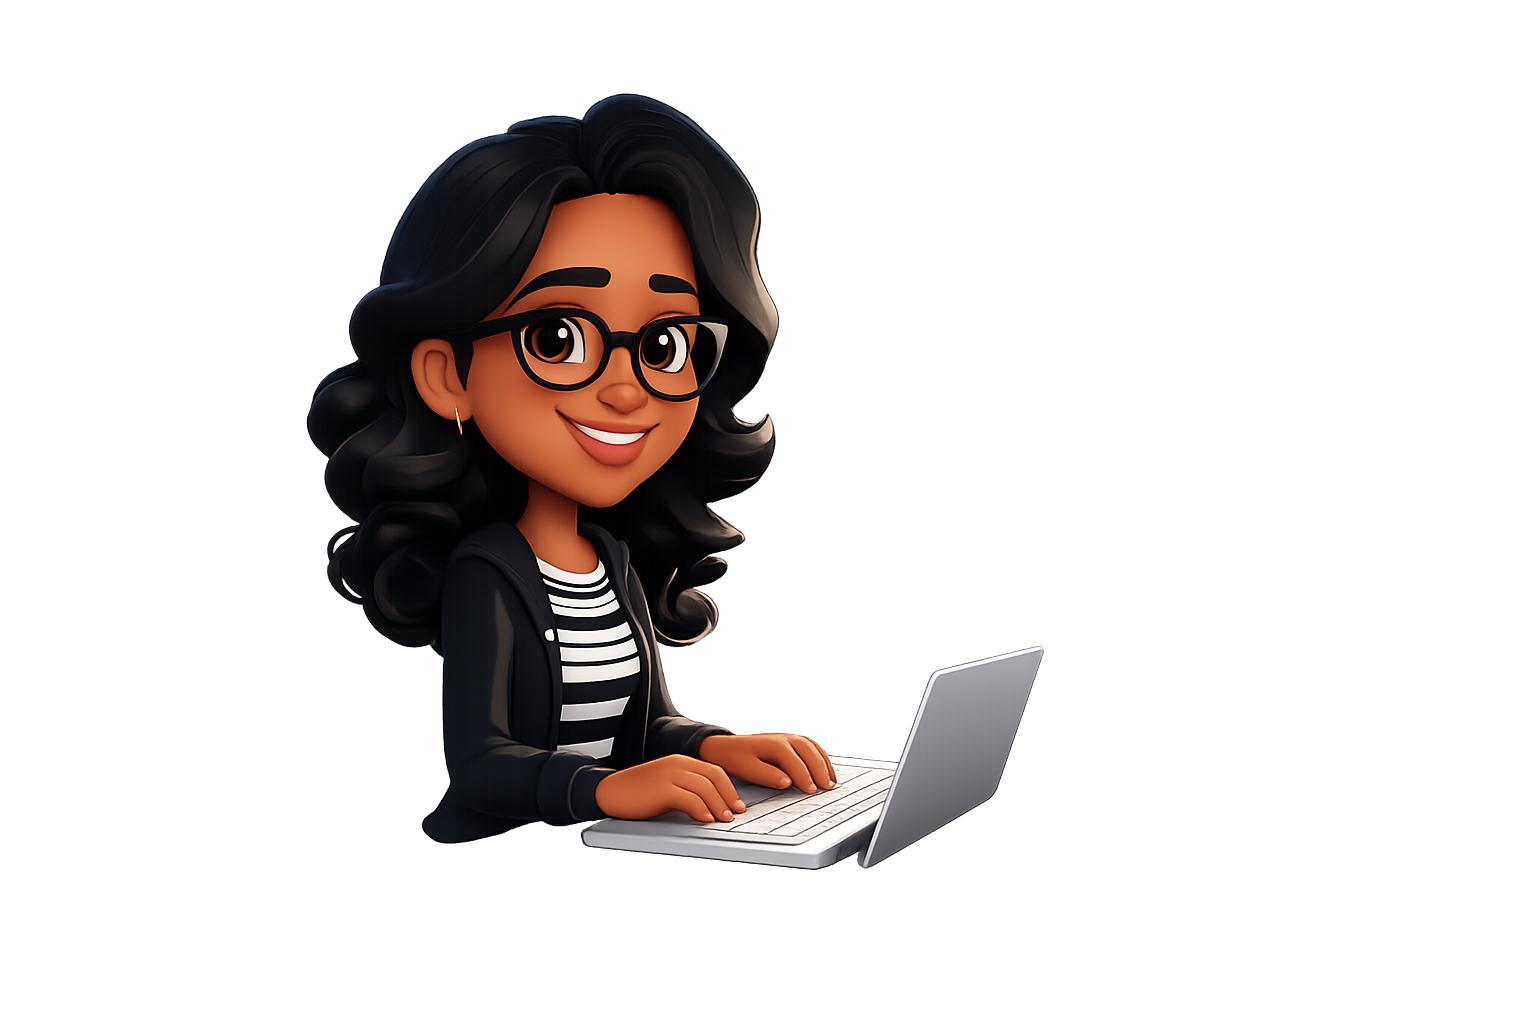
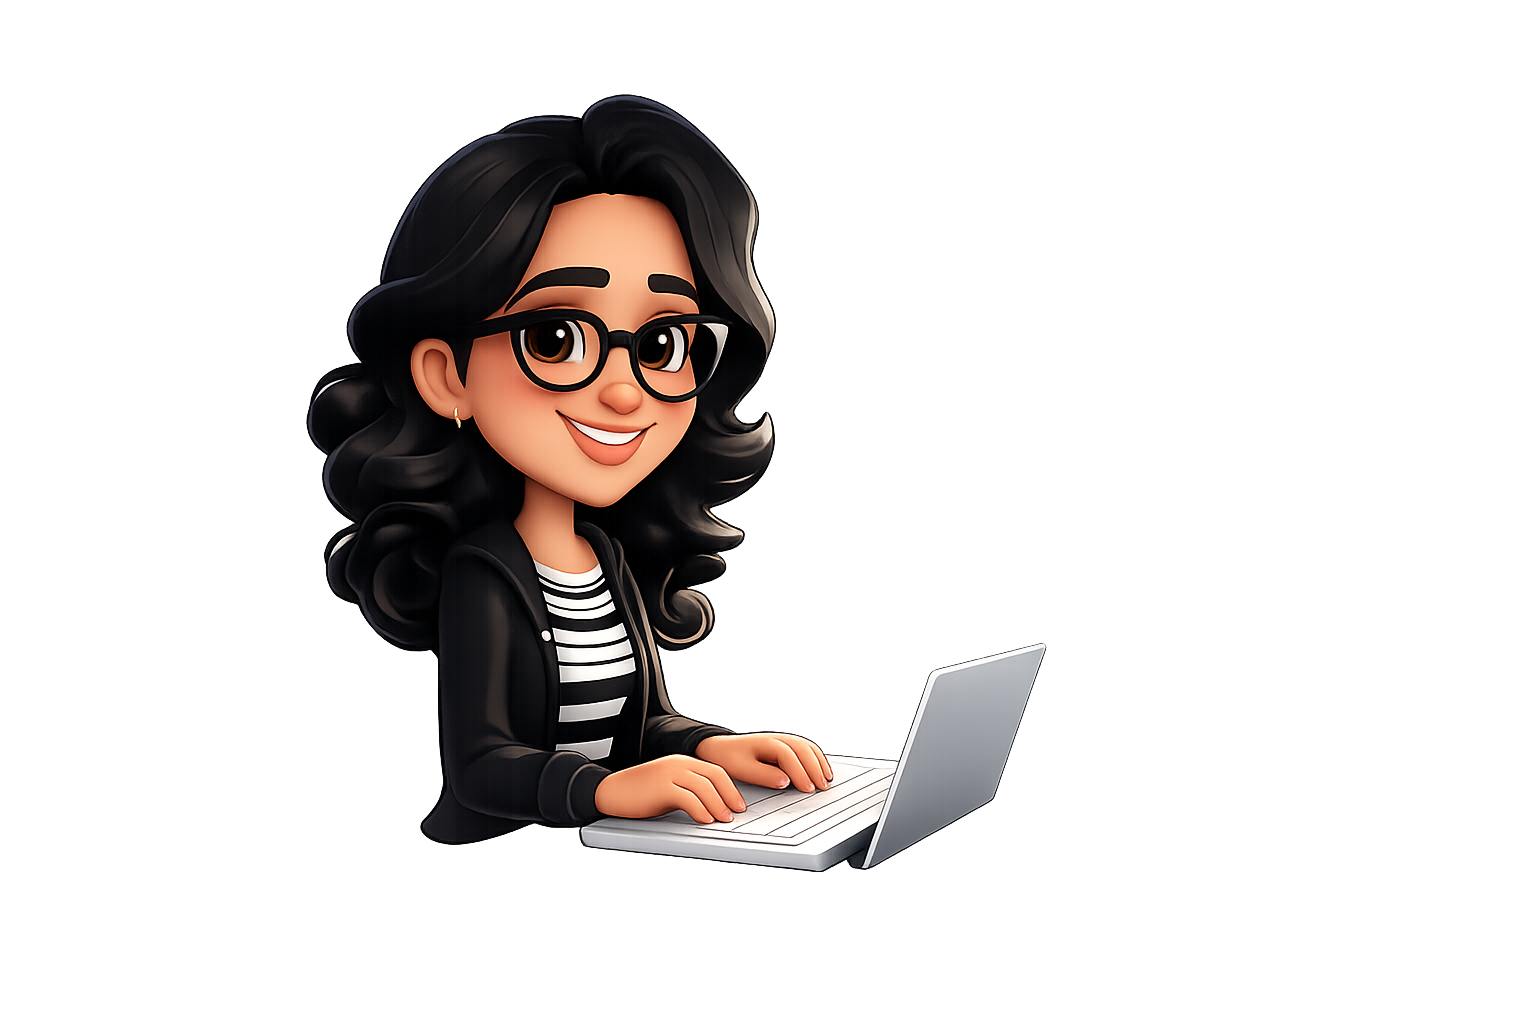
project section update

diff --git a/pages/projects.md b/pages/projects.md
@@ -44,6 +44,12 @@ permalink: /projects/
     position: relative;
     overflow: hidden;
     transition: transform 0.2s ease, box-shadow 0.2s ease;
+    display: flex;
+    flex-direction: column;
+  }
+  .proj-tile-desc { flex: 1; }
+  .proj-tile-foot-end {
+    margin-top: auto;
   }
   .proj-tile:hover {
     transform: translateY(-4px);
@@ -74,38 +80,110 @@ permalink: /projects/
   }
   .proj-tile-icon {
     position: absolute;
-    right: -6px;
-    bottom: -6px;
-    font-size: 60px;
-    opacity: 0.05;
+    right: -10px;
+    bottom: -10px;
+    font-size: 150px;
+    opacity: 0.12;
     line-height: 1;
     pointer-events: none;
     user-select: none;
+  }
+  .proj-tile-img-icon {
+    position: absolute;
+    right: -20px;
+    bottom: -20px;
+    width: 150px;
+    height: 150px;
+    object-fit: contain;
+    opacity: 0.22;
+    pointer-events: none;
+    user-select: none;
+  }
+  .proj-tile-foot {
+    display: inline-flex;
+    align-items: center;
+    gap: 6px;
+    margin-top: 12px;
+    font-size: 0.85rem;
+    font-weight: 600;
+  }
+  .proj-tile-foot i {
+    font-size: 1.5rem;
+    color: #2c2c2c;
+  }
+  .proj-tile-cta {
+    color: #5bc8af;
+    text-decoration: none;
+    transition: color 0.15s ease, transform 0.15s ease;
+    display: inline-block;
+  }
+  .proj-tile-cta:hover {
+    color: #3fa88f;
+    transform: translateX(2px);
+  }
+  .proj-tile-desc ul {
+    margin: 0;
+    padding-left: 18px;
+  }
+  .proj-tile-desc li {
+    font-size: 0.8rem;
+    color: #6b6b6b;
+    line-height: 1.6;
+    margin-bottom: 4px;
   }
 
 </style>
 
 <p class="exp-label">04 / Build</p>
-<p class="exp-intro">A selection of things I've built, broken, and occasionally shipped.</p>
+<p class="exp-intro">Some started as course projects, some as consulting deliverables, and at least one as a 3am idea I couldn't shake. The through line is usually the same: a real problem, a scrappy build, and something that actually ran in production. Not everything shipped cleanly. Most of them taught me more when they didn't.</p>
 
 <div class="projects-grid" markdown="0">
   <div class="proj-tile">
-    <h3>Project One</h3>
-    <span class="proj-tile-tags">Python · NLP · BERTopic</span>
-    <span class="proj-tile-desc">Placeholder description for the first project. Details coming soon.</span>
-    <span class="proj-tile-icon">🔬</span>
+    <h3>Animal &rarr; Origami Image Translation</h3>
+    <span class="proj-tile-tags">Deep Learning &middot; NST &middot; CycleGAN &middot; AWS</span>
+    <div class="proj-tile-desc">
+      <ul>
+        <li>CS230 team project turning animal photos into origami-style images</li>
+        <li>Built and trained the feed-forward NST models</li>
+        <li>Ran a YOLOv8 segmentation pipeline over 61K images</li>
+        <li>Managed the AWS training stack on EC2, SageMaker, and S3</li>
+      </ul>
+    </div>
+    <div class="proj-tile-foot proj-tile-foot-end">
+      <i class="fa fa-github"></i>
+      <a href="https://github.com/antranakhasi/Origami-Model-using-CycleGAN" target="_blank" rel="noopener" class="proj-tile-cta">check out the repo &rarr;</a>
+    </div>
+    <img src="/assets/img/origami.png" class="proj-tile-img-icon" alt="">
   </div>
   <div class="proj-tile">
-    <h3>Project Two</h3>
-    <span class="proj-tile-tags">RAG · LLMs · FastAPI</span>
-    <span class="proj-tile-desc">Placeholder description for the second project. Details coming soon.</span>
-    <span class="proj-tile-icon">🤖</span>
+    <h3>Kintsugi Tax: Re-engagement Pipeline</h3>
+    <span class="proj-tile-tags">HubSpot · CRM Automation · Customer Research · Product Strategy</span>
+    <div class="proj-tile-desc">
+      <ul>
+        <li>23+ customer discovery interviews (500+ outreach) surfaced a $40K+ pipeline recovery opportunity</li>
+        <li>Defined MVP: HubSpot "Blocked Item" field + feature-triggered rep follow-up workflow</li>
+        <li>Built ReEngageBot, a Slack/HubSpot automation that closes the product-to-sales feedback loop</li>
+        <li>Scoped MVP at ~$1,400–$1,500 with no new tooling required</li>
+      </ul>
+    </div>
+    <div class="proj-tile-foot">
+      <i class="fa fa-github"></i>
+      <a href="https://github.com/antranakhasi/ReEngageBot" target="_blank" rel="noopener" class="proj-tile-cta">check out ReEngageBot &rarr;</a>
+    </div>
+    <img src="/assets/img/kintsugi.png" class="proj-tile-img-icon" alt="">
   </div>
   <div class="proj-tile">
-    <h3>Project Three</h3>
-    <span class="proj-tile-tags">SQL · Tableau · Airflow</span>
-    <span class="proj-tile-desc">Placeholder description for the third project. Details coming soon.</span>
-    <span class="proj-tile-icon">📊</span>
+    <h3>WeatherMesh: Go-to-Market Strategy</h3>
+    <span class="proj-tile-tags">Market Research · GTM · Competitive Analysis · B2B · Energy Tech · Product Strategy</span>
+    <div class="proj-tile-desc">
+      <ul>
+        <li>GTM strategy for WeatherMesh: AI weather API with 1-hour resolution in a $10B market</li>
+        <li>Segmented ICP across grid operators, energy analysts, and sustainability officers at utilities and IPPs</li>
+        <li>Three-tier pricing ($10–25k → $50–100k+/mo) benchmarked against 5 competitors</li>
+        <li>Designed distinct inbound (SEO, webinars) and outbound (ABM, trade shows, pilots) motions</li>
+      </ul>
+    </div>
+    <img src="/assets/img/windborne.png" class="proj-tile-img-icon" alt="">
   </div>
   <div class="proj-tile">
     <h3>Project Four</h3>

diff --git a/pages/experience.md b/pages/experience.md
@@ -187,11 +187,44 @@ permalink: /experience/
   .tl-desc li { margin-bottom: 5px; }
   .tl-card-icon {
     position: absolute;
-    right: -6px;
-    bottom: -6px;
-    font-size: 60px;
-    opacity: 0.05;
+    right: -10px;
+    bottom: -10px;
+    font-size: 110px;
+    opacity: 0.22;
     line-height: 1;
+    pointer-events: none;
+    user-select: none;
+  }
+  .tl-card-img-icon {
+    position: absolute;
+    right: -10px;
+    bottom: -10px;
+    width: 150px;
+    height: 150px;
+    object-fit: contain;
+    opacity: 0.22;
+    pointer-events: none;
+    user-select: none;
+  }
+  .tl-heal-card {
+    position: absolute;
+    right: -40px;
+    bottom: -40px;
+    width: 150px;
+    height: 150px;
+    object-fit: contain;
+    opacity: 0.22;
+    pointer-events: none;
+    user-select: none;
+  }
+   .tl-haas-card {
+    position: absolute;
+    right: 0px;
+    bottom: -75px;
+    width: 200px;
+    height: 200px;
+    object-fit: contain;
+    opacity: 0.22;
     pointer-events: none;
     user-select: none;
   }
@@ -233,7 +266,7 @@ permalink: /experience/
           <li>Drove user adoption via feedback sessions; shipped features improving output accuracy by ~40%.</li>
           <li>Authored PRDs and conducted competitive analysis across 20+ industries to validate GenAI use cases.</li>
         </ul>
-        <span class="tl-card-icon">💼</span>
+        <img src="/assets/img/pwc.png" class="tl-card-img-icon" alt="">
       </div>
       <span class="tl-date">Jan 2023 — Aug 2024</span>
       <div class="we-stem"></div>
@@ -255,7 +288,7 @@ permalink: /experience/
           <li>Built NLP pipelines analyzing 500+ unstructured clinical records; reduced manual review effort at scale.</li>
           <li>Synthesized behavioral insights for interdisciplinary teams, informing improvements in care delivery workflows.</li>
         </ul>
-        <span class="tl-card-icon">🧬</span>
+        <img src="/assets/img/heal.png" class="tl-heal-card" alt="">
       </div>
     </div>
 
@@ -272,7 +305,7 @@ permalink: /experience/
           <li>Applied crawl-walk-run model to drive adoption; secured stakeholder buy-in for program-wide migration.</li>
           <li>Developed Airtable matching system with Airflow orchestration; reduced manual effort across 1,500+ records.</li>
         </ul>
-        <span class="tl-card-icon">📊</span>
+        <img src="/assets/img/haas.png" class="tl-haas-card" alt="">
       </div>
       <span class="tl-date">Dec 2025 — Present</span>
       <div class="we-stem"></div>

diff --git a/pages/education.md b/pages/education.md
@@ -130,9 +130,20 @@ permalink: /education/
   .tl-card-header {
     display: flex;
     justify-content: space-between;
-    align-items: baseline;
+    align-items: center;
     gap: 8px;
     margin-bottom: 3px;
+  }
+  .tl-card-img-icon {
+    position: absolute;
+    right: -40px;
+    bottom: -30px;
+    width: 150px;
+    height: 150px;
+    object-fit: contain;
+    opacity: 0.22;
+    pointer-events: none;
+    user-select: none;
   }
   .tl-card h3 {
     font-size: 0.95rem;
@@ -173,10 +184,10 @@ permalink: /education/
   }
   .tl-card-icon {
     position: absolute;
-    right: -6px;
-    bottom: -6px;
-    font-size: 60px;
-    opacity: 0.05;
+    right: -10px;
+    bottom: -10px;
+    font-size: 110px;
+    opacity: 0.12;
     line-height: 1;
     pointer-events: none;
     user-select: none;
@@ -218,7 +229,7 @@ permalink: /education/
           <li>Built GTM automation and re-engagement workflows at Kintsugi, a startup navigating the chaos of US sales tax compliance.</li>
           <li><em>Relevant coursework: Data Science · Optimization · Strategy · Product Management · Deep Learning · NLP</em></li>
         </ul>
-        <span class="tl-card-icon">🎓</span>
+        <img src="/assets/img/stanford-logo.avif" class="tl-card-img-icon" alt="">
       </div>
       <span class="tl-date">Sept 2024 — Present</span>
       <div class="we-stem"></div>
@@ -246,7 +257,7 @@ permalink: /education/
           <li>Designed Futerpreneurs 6.0, a national business competition; managed a team of 15+ coordinators.</li>
           <li>Placed in three national competitions: HackWIE (3rd), 3-Day CEO (2nd), Escape Rooms CEO (3rd).</li>
         </ul>
-        <span class="tl-card-icon">⚡</span>
+        <img src="/assets/img/vit-logo.png" class="tl-card-img-icon" alt="">
       </div>
     </div>
 
